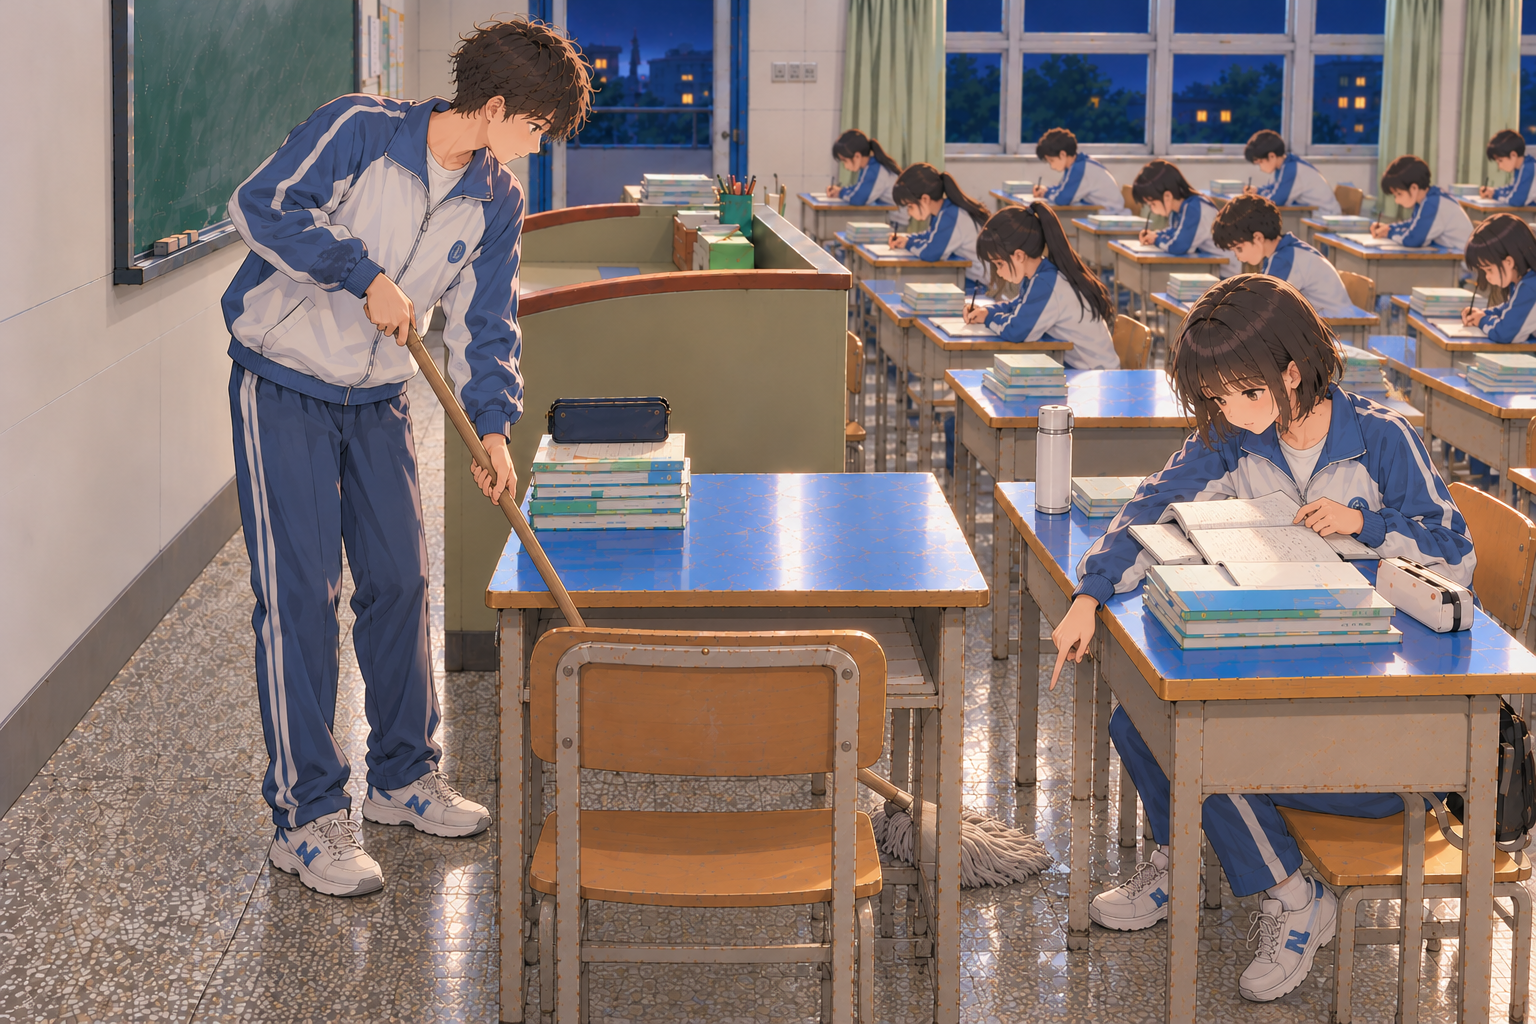
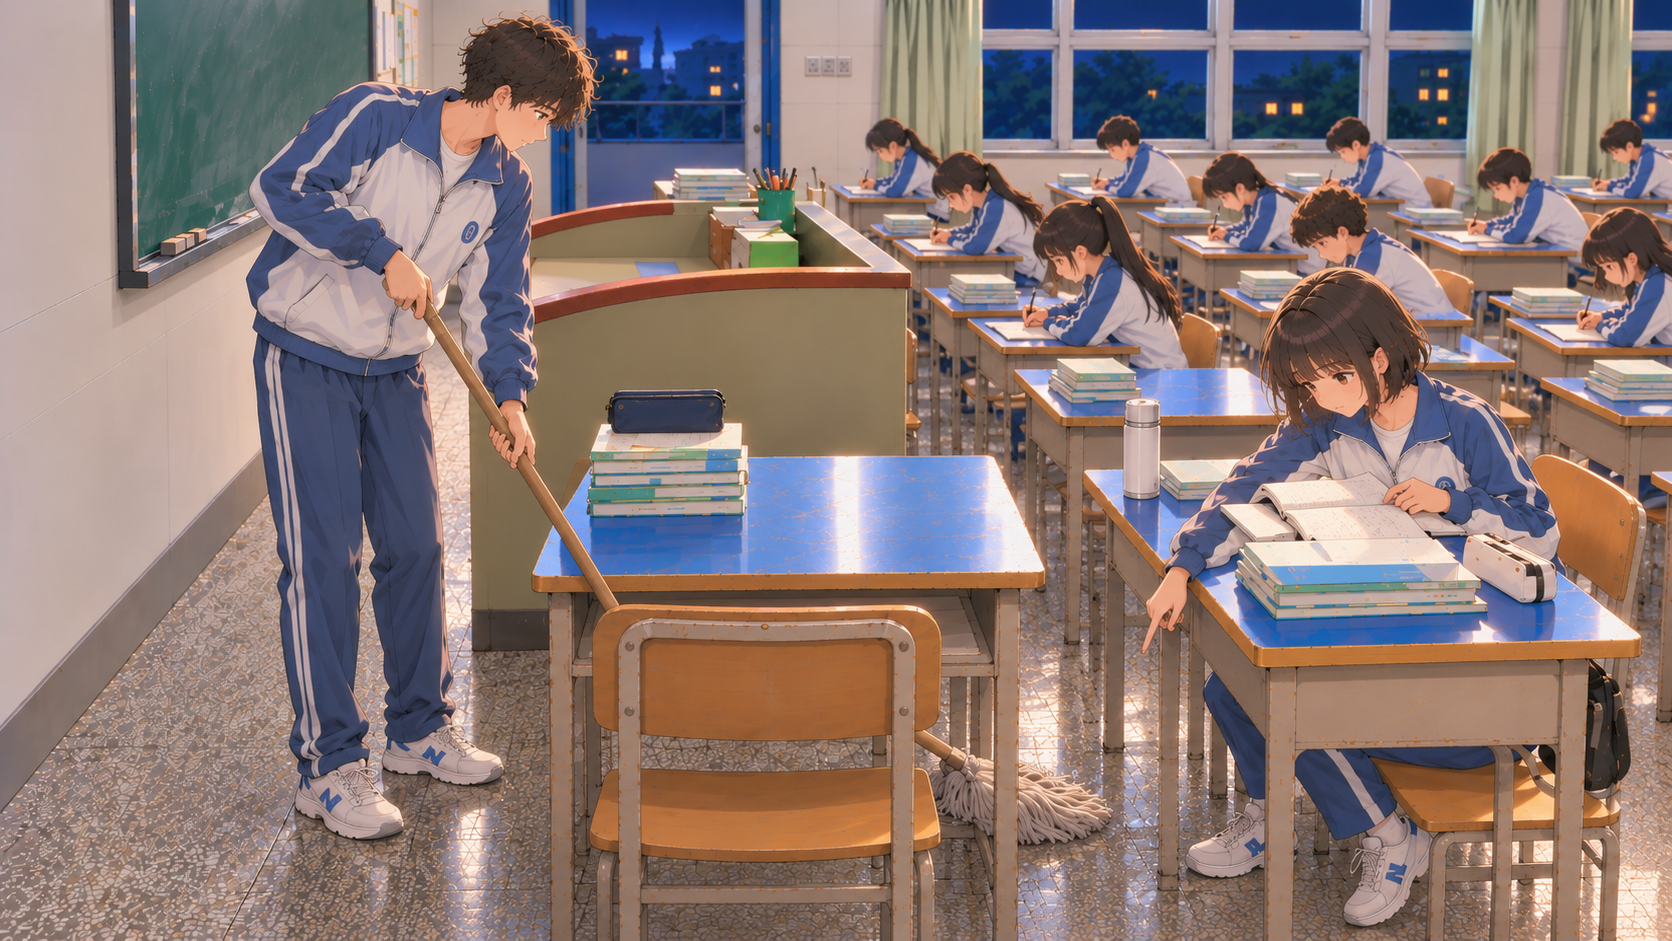
Use author wide-screen source images for third act

diff --git a/art/Story/Act3/WaterCup/AUTHOR_REPLACEMENT.md b/art/Story/Act3/WaterCup/AUTHOR_REPLACEMENT.md
@@ -1,5 +1,19 @@
 # 第三幕作者替换图 · 2026-11-01
 
+## 作者宽屏原图更新 · 2026-11-02
+
+使用资产包/第三幕最新五图替换归档及游戏副本，原样复制，不重新生图、不改像素。图一与上一版内容相同，图二至图五更新为近16:9宽屏构图，替代先前3:2原图。保持现有全屏1920×1080和55%不透明度对白框，18段剧情及其他幕不变。源图与两份副本哈希一致，原.meta/GUID未变。
+
+| 来源文件 | 游戏图片 | 实际尺寸 | SHA256 |
+| --- | --- | --- | --- |
+| 图一.png | EveningStudy | 1672×941 | f4ec7e60473b03ae026ffe2f5eb06c6191d7c11c357369b814def9d4c0bd94b1 |
+| 图二 .png | SpilledWater | 1672×941 | b993e578ea1f84dd5d2bec65fd61cc2d74b30a3a29139f10940061f4b861babe |
+| 图三.png | EyeContact | 1672×941 | 03e6a875827eae4688461e2da1db7487180ccf8c0f7ff4b5c35656e113f46b97 |
+| 图四.png | Mopping | 1672×941 | c3006c97d628775d457d49de0e1b23f55e0c933de6243c874eee184ec11fee37 |
+| 图五.png | WetSleeve | 1672×941 | 7fc165ba58075a530e929e854bab16a1a83ec3ee4ab2bcbe4e2cc50ad714bacd |
+
+以下为上一版记录，当前图片以上表为准。
+
 ## 当前显示方式 · 2026-11-02
 
 作者要求与前面界面一致：第三幕五图直接拉伸铺满1920×1080（16:9），使用完整原图，不裁切、不留白；3:2图会横向拉宽。所有剧情的白色对话框改为55%不透明度（45%透明），文字保持不透明。图片源文件、对白与顺序不变。独立编译和Unity实际编译、Windows构建通过；未代做Play或游戏阅读测试。请在新版检查第三幕五图铺满、下方道具能透过对白框看到，以及第一至第五幕文字可读性。下方等比留白方案为已被本次要求替代的历史记录。

diff --git a/docs/PROGRESS.md b/docs/PROGRESS.md
@@ -2,6 +2,11 @@
 
 ## 更新 · 2026-11-02
 
+### 第三幕作者16:9宽屏原图接入 · 17:41
+- 从资产包/第三幕读取图一、图二（文件名末尾空格）、图三至图五，五图均1672×941，近16:9；图一与上一版一致，另外四图更新宽屏构图。归档及运行副本原样替换，五组SHA256一致，五个原.meta/GUID保留。先登记来源台账，当前哈希表见AUTHOR_REPLACEMENT.md。
+- 未修改代码、18段第三幕对白、其他幕与音乐；保留铺满1920×1080及白框alpha0.55。仅做图片与来源记录更新，无新增测试代码。
+- 后台构建最初因无headless许可退出198；随后已打开的编辑器成功导入四张变动图并生成Windows包，日志ILLUSTRATED_MENU_BUILD_PASS和5章/23图/99段检查通过，resources.assets写入2026-11-02 17:41:43。直接采信该次成功构建，不重复打包。未启动Play或独立游戏测试，作者核对第三幕五图即可。
+
 ### 第三幕铺满16:9与半透明对白框
 - 按作者明确要求，取消第三幕图片在对白框上方等比留白的布局。第三幕原图使用完整UV，直接拉伸至1920×1080画面，保留全部图像内容；不重采样或改动源文件。其他幕仍沿用原有画面取景。
 - 全部故事的白色对白框底色alpha从0.96调整为0.55，文字及按钮保持独立不透明；第三幕与其他幕使用相同的全屏背景和覆盖式底部对白布局。移除上一版窄图转场额外淡出，恢复覆盖式转场。

diff --git a/docs/THIRD_ACT.md b/docs/THIRD_ACT.md
@@ -1,5 +1,9 @@
 # 第三幕《水杯》
 
+## 最新宽屏原图 · 2026-11-02 17:41
+
+第三幕改用作者资产包中最新五张1672×941宽屏原图。图一与上一版相同，图二至图五已替换为新构图，不再使用原3:2图片。保持现有全屏、半透明对白框、18段剧情与五幕顺序，原图未改像素，GUID未变。Unity实际导入及Windows构建成功，resources.assets写入17:41:43；未代做游玩测试。作者打开新版后查看第三幕五图、半透明对白与进入第四幕即可。当前尺寸/哈希以AUTHOR_REPLACEMENT.md最新表为准，下方旧尺寸为历史。
+
 ## 当前显示方式 · 2026-11-02
 
 作者要求与前面界面一致：第三幕五图直接拉伸铺满1920×1080（16:9），使用完整原图，不裁切、不留白；3:2图会横向拉宽。所有剧情的白色对话框改为55%不透明度（45%透明），文字保持不透明。图片源文件、对白与顺序不变。独立编译和Unity实际编译、Windows构建通过；未代做Play或游戏阅读测试。请在新版检查第三幕五图铺满、下方道具能透过对白框看到，以及第一至第五幕文字可读性。下方等比留白方案为已被本次要求替代的历史记录。

diff --git a/README.md b/README.md
@@ -1,5 +1,7 @@
 # 原创 2D 叙事游戏（开发代号待定）
 
+**第三幕宽屏原图已更新（2026-11-02 17:41）：** 作者最新五张1672×941图片已原样接入，保留全屏画面、半透明对白框与原剧情。Unity实际导入及Windows构建成功，[打开新版游戏](Builds/MenuDemo/MenuDemo.exe)查看；未代做游玩测试。以下为历史记录。
+
 **第三幕显示调整（2026-11-02）：** 作者新版五图改为直接拉伸铺满16:9，不裁切、不留白；全故事对白框改为55%不透明度，文字保持不透明。独立编译与Unity实际编译通过，Windows新版构建成功，详见[第三幕说明](docs/THIRD_ACT.md)。未代做游玩测试，以下为历史记录。
 
 **第三幕作者新版图片已替换（2026-11-01）：** 五张图片已原样更新到工程，第三幕等比完整显示于对话框上方，保留18段剧情及其他四幕。独立C#编译通过；本次后台Unity启动退出1，未生成新版Windows包，现有exe仍为20:41的旧图版。请从Hub打开工程，选择Tools → Story Prototype → Build Illustrated Menu后查看。见[第三幕说明](docs/THIRD_ACT.md)。

diff --git a/docs/ROADMAP.md b/docs/ROADMAP.md
@@ -1,5 +1,7 @@
 # 首阶段执行计划
 
+> 2026-11-02 17:41：第三幕作者宽屏原图已接入并构建成功，五图原始尺寸1672×941，原图/归档/运行副本一致。保持全屏及半透明对白、五幕99段；由作者检查实机观感。
+
 > 2026-11-02：第三幕五张作者图按要求拉伸铺满16:9，全故事白色对白框改为55%不透明度；独立编译、Unity编译和Windows构建通过，作者验收观感。此前第三幕构建阻塞已由本次编辑器内构建解除。
 
 > 2026-11-01：第三幕作者五张新图已替换工程，保留剧情与资源GUID；等比完整展示避免裁切，独立脚本编译通过。本次Unity后台启动退出1，Windows包未更新，需从Hub打开工程并执行Build Illustrated Menu；之后由作者验收。见THIRD_ACT.md。
